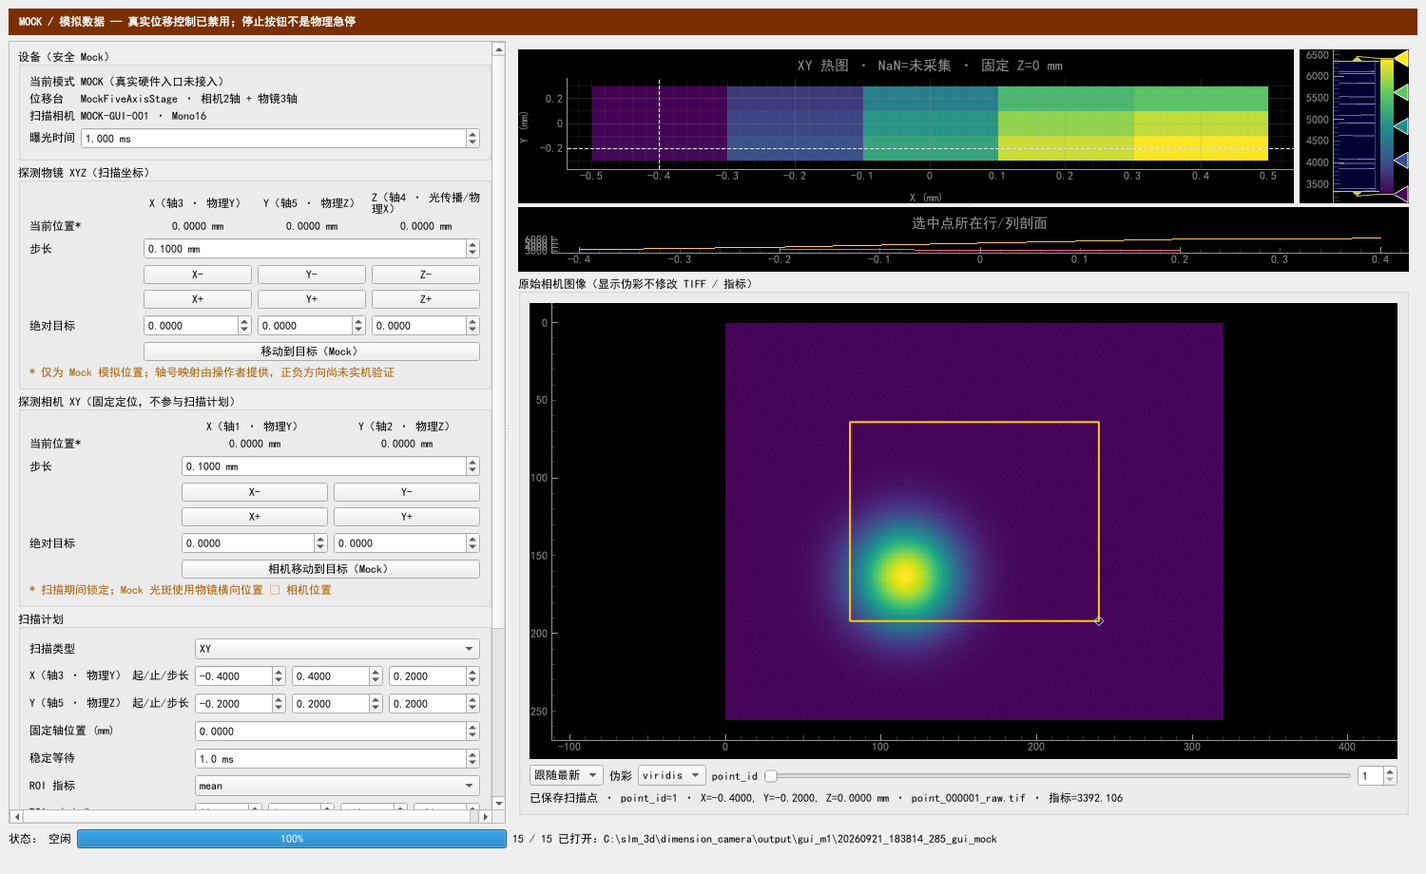
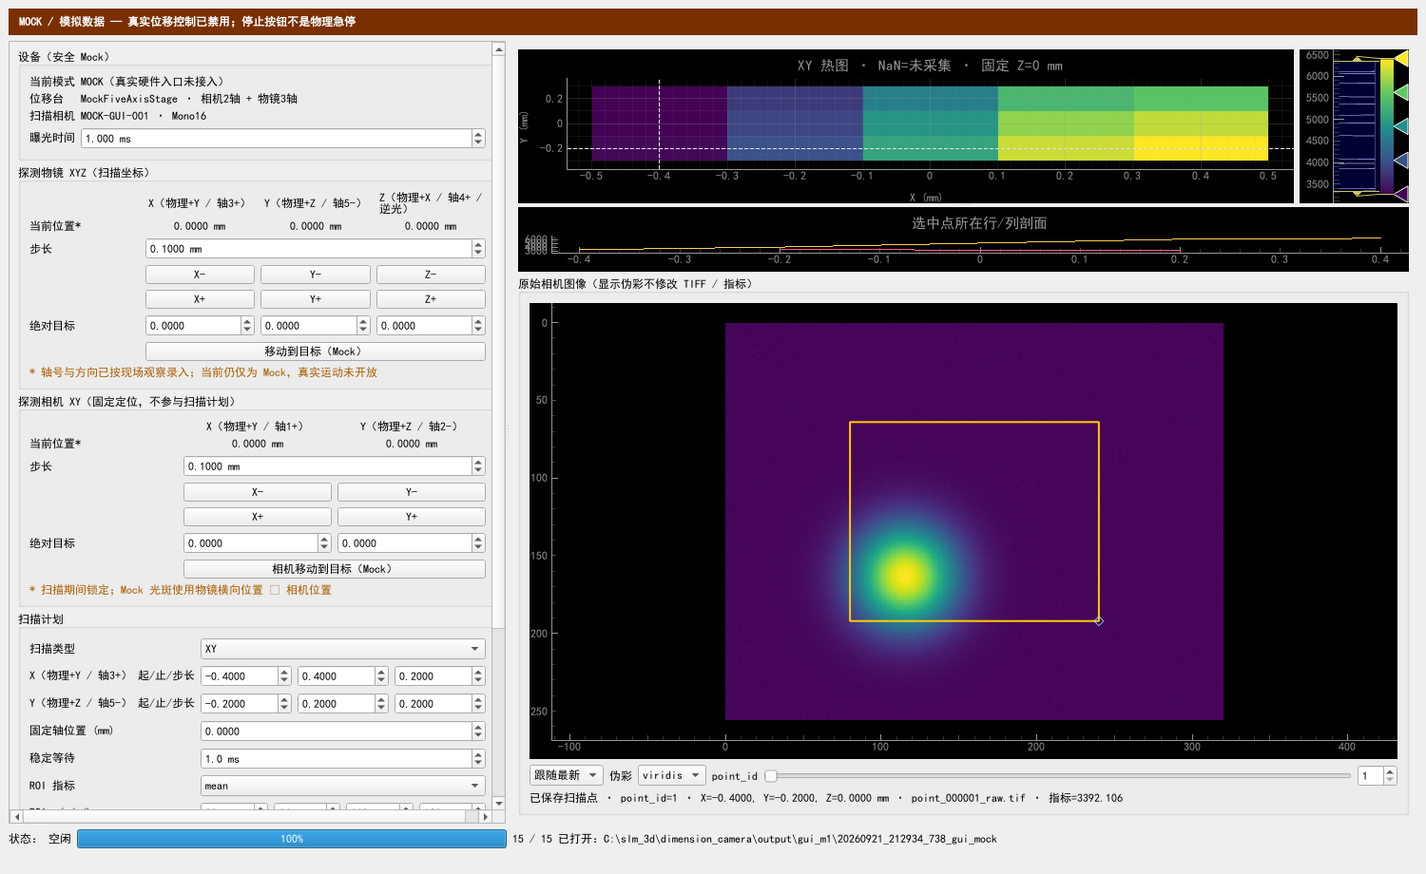
feat: record verified five-axis directions

diff --git a/data/spatial_session.py b/data/spatial_session.py
@@ -19,7 +19,8 @@ from scan.spatial_scan import SpatialPoint, SpatialScanPlan
 
 SPATIAL_LOG_COLUMNS = [
     "timestamp_utc", "scan_id", "point_id", "order_index", "row", "col",
-    "scan_type", "target_x_mm", "target_y_mm", "target_z_mm",
+    "scan_type", "axis_mapping_id", "direction_mapping_status",
+    "target_x_mm", "target_y_mm", "target_z_mm",
     "actual_x_mm", "actual_y_mm", "actual_z_mm", "position_source",
     "camera_x_mm", "camera_y_mm", "camera_position_source",
     "camera_source", "camera_serial", "camera_model", "exposure_us",
@@ -104,6 +105,8 @@ class SpatialDataManager:
         self.session_dir: Path | None = None
         self._file = None
         self._writer: csv.DictWriter | None = None
+        self._axis_mapping_id = "unavailable"
+        self._direction_mapping_status = "unavailable"
 
     def open(self, *, stage_info: dict[str, object], camera_info: dict[str, object]) -> Path:
         self.plan.save_root.mkdir(parents=True, exist_ok=True)
@@ -126,6 +129,8 @@ class SpatialDataManager:
             "camera_info": camera_info,
             "position_meaning": "mock_simulated; not encoder feedback",
         })
+        self._axis_mapping_id = str(stage_info.get("axis_mapping_id", "unavailable"))
+        self._direction_mapping_status = str(stage_info.get("axis_mapping_status", "unavailable"))
         _atomic_json(session / "scan_config.json", config)
         self._file = (session / "scan_log.csv").open("w", newline="", encoding="utf-8-sig")
         self._writer = csv.DictWriter(self._file, fieldnames=SPATIAL_LOG_COLUMNS)
@@ -167,6 +172,8 @@ class SpatialDataManager:
             "row": "" if point.row is None else point.row,
             "col": "" if point.col is None else point.col,
             "scan_type": self.plan.scan_type,
+            "axis_mapping_id": self._axis_mapping_id,
+            "direction_mapping_status": self._direction_mapping_status,
             **{f"target_{axis.lower()}_mm": point.targets_mm[axis] for axis in ("X", "Y", "Z")},
             **{f"actual_{axis.lower()}_mm": actual_mm[axis] for axis in ("X", "Y", "Z")},
             "position_source": "mock_simulated", "camera_source": "mock",
@@ -194,6 +201,8 @@ class SpatialDataManager:
             "row": "" if point.row is None else point.row,
             "col": "" if point.col is None else point.col,
             "scan_type": self.plan.scan_type,
+            "axis_mapping_id": self._axis_mapping_id,
+            "direction_mapping_status": self._direction_mapping_status,
             **{f"target_{axis.lower()}_mm": point.targets_mm[axis] for axis in ("X", "Y", "Z")},
             "position_source": "unavailable", "camera_source": "mock",
             "camera_serial": self.plan.camera_serial, "exposure_us": self.plan.exposure_us,
@@ -338,14 +347,57 @@ def export_spatial_session_mat(directory: Path) -> Path:
                 metric_grid[int(row[index, 0]), int(col[index, 0])] = metric_value[index, 0]
 
     roi_xywh = config.get("roi_xywh", [])
+    stage_info = config.get("stage", {})
+    if not isinstance(stage_info, dict):
+        stage_info = {}
+    axis_mapping = stage_info.get("axis_mapping", {})
+    if not isinstance(axis_mapping, dict):
+        axis_mapping = {}
+
+    def mapping_arrays(group: str, logical_axes: tuple[str, ...]) -> tuple[np.ndarray, np.ndarray, list[object]]:
+        group_mapping = axis_mapping.get(group, {})
+        if not isinstance(group_mapping, dict):
+            group_mapping = {}
+        controller_axes = np.full((1, len(logical_axes)), np.nan, dtype=np.float64)
+        controller_signs = np.full((1, len(logical_axes)), np.nan, dtype=np.float64)
+        physical_axes: list[object] = []
+        for index, logical_axis in enumerate(logical_axes):
+            entry = group_mapping.get(logical_axis, {})
+            if not isinstance(entry, dict):
+                entry = {}
+            controller_axes[0, index] = _float_or_nan(entry.get("controller_axis"))
+            controller_signs[0, index] = _float_or_nan(entry.get("controller_sign_for_gui_positive"))
+            physical_axes.append(str(entry.get("physical_axis", "")))
+        return controller_axes, controller_signs, physical_axes
+
+    objective_controller_axes, objective_controller_signs, objective_physical_axes = mapping_arrays(
+        "objective", ("X", "Y", "Z")
+    )
+    camera_controller_axes, camera_controller_signs, camera_physical_axes = mapping_arrays(
+        "camera", ("X", "Y")
+    )
     successful_count = sum(status == "ok" for status in statuses)
     payload: dict[str, object] = {
-        "mat_export_version": np.int32(1),
+        "mat_export_version": np.int32(2),
         "scan_id": str(config.get("scan_id", "")),
         "scan_type": str(config.get("scan_type", "")),
         "device_mode": str(config.get("device_mode", "")),
         "position_meaning": str(config.get("position_meaning", "")),
+        "axis_mapping_id": str(stage_info.get("axis_mapping_id", "")),
+        "axis_mapping_status": str(stage_info.get("axis_mapping_status", "")),
+        "direction_verification_method": str(stage_info.get("direction_verification_method", "")),
         "coordinate_axis_order": _string_column(["X", "Y", "Z"]),
+        "objective_controller_axis_order": objective_controller_axes,
+        "objective_controller_sign_for_gui_positive": objective_controller_signs,
+        "objective_physical_axis_for_gui_order": _string_column(objective_physical_axes),
+        "camera_controller_axis_order": camera_controller_axes,
+        "camera_controller_sign_for_gui_positive": camera_controller_signs,
+        "camera_physical_axis_for_gui_order": _string_column(camera_physical_axes),
+        "objective_z_positive_optical_direction": str(
+            axis_mapping.get("objective", {}).get("Z", {}).get(
+                "controller_positive_optical_direction", ""
+            ) if isinstance(axis_mapping.get("objective", {}), dict) else ""
+        ),
         "point_id": point_id,
         "order_index": order_index,
         "row": row,

diff --git a/mock/mock_xyz_stage.py b/mock/mock_xyz_stage.py
@@ -1,7 +1,7 @@
 """GUI-M1 的线程安全五轴模拟位移台。
 
 兼容原有物镜 ``X/Y/Z`` API，同时增加探测相机 ``X/Y``。这里的 X/Y/Z 是
-光学逻辑坐标；控制器轴号及实验室物理轴映射只作为已报告、待实机确认的元数据。
+光学逻辑坐标；控制器轴号及方向来自现场人工观察，Mock 本身不连接真实控制器。
 """
 
 from __future__ import annotations
@@ -19,16 +19,38 @@ class MockXYZStage:
     _OBJECTIVE_KEYS = {"X": "objective_X", "Y": "objective_Y", "Z": "objective_Z"}
     _CAMERA_KEYS = {"X": "camera_X", "Y": "camera_Y"}
 
-    # 映射来自操作者描述；正负方向、控制器配置和机械行程尚未实机验证。
+    # 轴身份和方向来自操作者使用官方控制软件的现场观察；标定、行程和安全 API 仍未知。
     AXIS_MAPPING = {
         "camera": {
-            "X": {"controller_axis": 1, "optical_role": "transverse_x", "physical_axis": "Y"},
-            "Y": {"controller_axis": 2, "optical_role": "transverse_y", "physical_axis": "Z"},
+            "X": {
+                "controller_axis": 1, "optical_role": "transverse_x", "physical_axis": "Y",
+                "controller_positive_physical_direction": "+Y",
+                "controller_sign_for_gui_positive": 1,
+            },
+            "Y": {
+                "controller_axis": 2, "optical_role": "transverse_y", "physical_axis": "Z",
+                "controller_positive_physical_direction": "-Z",
+                "controller_sign_for_gui_positive": -1,
+            },
         },
         "objective": {
-            "X": {"controller_axis": 3, "optical_role": "transverse_x", "physical_axis": "Y"},
-            "Y": {"controller_axis": 5, "optical_role": "transverse_y", "physical_axis": "Z"},
-            "Z": {"controller_axis": 4, "optical_role": "propagation", "physical_axis": "X"},
+            "X": {
+                "controller_axis": 3, "optical_role": "transverse_x", "physical_axis": "Y",
+                "controller_positive_physical_direction": "+Y",
+                "controller_sign_for_gui_positive": 1,
+            },
+            "Y": {
+                "controller_axis": 5, "optical_role": "transverse_y", "physical_axis": "Z",
+                "controller_positive_physical_direction": "-Z",
+                "controller_sign_for_gui_positive": -1,
+            },
+            "Z": {
+                "controller_axis": 4, "optical_role": "propagation_axis", "physical_axis": "X",
+                "controller_positive_physical_direction": "+X",
+                "controller_sign_for_gui_positive": 1,
+                "controller_positive_optical_direction": "against_propagation",
+                "controller_positive_mechanical_observation": "objective_forward",
+            },
         },
     }
 
@@ -166,8 +188,11 @@ class MockXYZStage:
             "position_source": "mock_simulated",
             "unit": "mm (simulation only)",
             "real_motion_enabled": False,
-            "axis_mapping_status": "user_reported_axis_identity; direction_sign_unverified",
-            "direction_sign_verified": False,
+            "axis_mapping_id": "five_axis_operator_observed_v1",
+            "axis_mapping_status": "operator_observed_axis_identity_and_direction",
+            "direction_sign_verified": True,
+            "direction_verification_method": "operator_observed_with_official_controller_software",
+            "gui_coordinate_convention": "positive_gui_coordinates_follow_positive_physical_axes",
             "axis_mapping": self.AXIS_MAPPING,
             "camera_positions_mm_at_scan_start": self.get_camera_positions(),
             "objective_positions_mm_at_scan_start": self.get_positions(),

diff --git a/tests/test_gui_m1.py b/tests/test_gui_m1.py
@@ -23,8 +23,10 @@ def test_gui_constructs_mock_only_without_hardware(tmp_path: Path) -> None:
         assert window.stage.is_connected and window.camera.is_connected
         assert set(window.camera_position_labels) == {"X", "Y"}
         label_texts = [label.text() for label in window.findChildren(QtWidgets.QLabel)]
-        assert any("轴3" in text and "物理Y" in text for text in label_texts)
-        assert any("轴1" in text and "物理Y" in text for text in label_texts)
+        assert any("轴3+" in text and "物理+Y" in text for text in label_texts)
+        assert any("轴1+" in text and "物理+Y" in text for text in label_texts)
+        assert any("轴5-" in text and "物理+Z" in text for text in label_texts)
+        assert any("轴4+" in text and "逆光" in text for text in label_texts)
         assert window.camera_move_button.text().startswith("相机移动")
         before = window.stage.move_command_count
         window._plan = window._plan_from_controls()
@@ -80,15 +82,8 @@ def test_gui_mock_camera_move_does_not_change_objective(tmp_path: Path) -> None:
     window = MainWindow(config_path=tmp_path / "configuration.json")
     try:
         original = window.stage.get_positions()
-        window.camera_target_spins["X"].setValue(0.2)
-        window.camera_target_spins["Y"].setValue(-0.1)
-        window.camera_move_button.click()
-        deadline = 1000
-        while window._move_thread is not None and deadline > 0:
-            QtTest.QTest.qWait(10)
-            deadline -= 10
-        assert window._move_thread is None
-        assert window.stage.get_camera_positions() == {"X": 0.2, "Y": -0.1}
+        result = window.controller.manual_move_camera({"X": 0.2, "Y": -0.1})
+        assert result == {"X": 0.2, "Y": -0.1}
         assert window.stage.get_positions() == original
     finally:
         window.close(); app.processEvents()

diff --git a/tests/test_spatial_controller.py b/tests/test_spatial_controller.py
@@ -49,15 +49,24 @@ def test_complete_5_by_3_scan_save_reload_and_metric(tmp_path) -> None:
     config = json.loads((session_dir / "scan_config.json").read_text(encoding="utf-8"))
     assert config["device_mode"] == "MOCK" and config["stage"]["real_motion_enabled"] is False
     assert config["stage"]["axis_mapping"]["objective"]["Y"]["controller_axis"] == 5
-    assert config["stage"]["direction_sign_verified"] is False
+    assert config["stage"]["direction_sign_verified"] is True
+    assert config["stage"]["axis_mapping"]["camera"]["Y"]["controller_sign_for_gui_positive"] == -1
     assert {row["camera_x_mm"] for row in rows} == {"0.0"}
     assert {row["camera_y_mm"] for row in rows} == {"0.0"}
+    assert {row["axis_mapping_id"] for row in rows} == {"five_axis_operator_observed_v1"}
     matlab = loadmat(session_dir / "scan_data.mat", squeeze_me=True)
+    assert int(matlab["mat_export_version"]) == 2
     assert matlab["scan_id"] == config["scan_id"]
     assert matlab["target_xyz_mm"].shape == (15, 3)
     assert matlab["actual_xyz_mm"].shape == (15, 3)
     assert matlab["camera_xy_mm"].shape == (15, 2)
     assert np.allclose(matlab["camera_xy_mm"], 0.0)
+    assert matlab["axis_mapping_id"] == "five_axis_operator_observed_v1"
+    assert np.array_equal(matlab["objective_controller_axis_order"], [3, 5, 4])
+    assert np.array_equal(matlab["objective_controller_sign_for_gui_positive"], [1, -1, 1])
+    assert np.array_equal(matlab["camera_controller_axis_order"], [1, 2])
+    assert np.array_equal(matlab["camera_controller_sign_for_gui_positive"], [1, -1])
+    assert matlab["objective_z_positive_optical_direction"] == "against_propagation"
     assert matlab["metric_value"].shape == (15,)
     assert matlab["metric_grid"].shape == (3, 5)
     assert np.isclose(matlab["metric_grid"][1, 2], float(rows[7]["metric_value"]))

diff --git a/tests/test_mock_five_axis_stage.py b/tests/test_mock_five_axis_stage.py
@@ -25,17 +25,22 @@ def test_five_axis_groups_are_independent_and_signal_is_relative() -> None:
     assert stage.get_signal_positions() == pytest.approx({"X": 0.3, "Y": 0.5, "Z": 0.5})
 
 
-def test_reported_axis_mapping_is_explicitly_unverified() -> None:
+def test_operator_observed_axis_mapping_records_direction_signs() -> None:
     stage = MockXYZStage()
     stage.connect()
     info = stage.device_info()
-    assert info["direction_sign_verified"] is False
-    assert info["axis_mapping"]["camera"]["X"] == {
-        "controller_axis": 1, "optical_role": "transverse_x", "physical_axis": "Y"
-    }
-    assert info["axis_mapping"]["objective"]["Z"] == {
-        "controller_axis": 4, "optical_role": "propagation", "physical_axis": "X"
-    }
+    assert info["direction_sign_verified"] is True
+    assert info["direction_verification_method"] == "operator_observed_with_official_controller_software"
+    camera_x = info["axis_mapping"]["camera"]["X"]
+    assert camera_x["controller_axis"] == 1
+    assert camera_x["controller_positive_physical_direction"] == "+Y"
+    assert camera_x["controller_sign_for_gui_positive"] == 1
+    camera_y = info["axis_mapping"]["camera"]["Y"]
+    assert camera_y["controller_sign_for_gui_positive"] == -1
+    objective_z = info["axis_mapping"]["objective"]["Z"]
+    assert objective_z["controller_axis"] == 4
+    assert objective_z["controller_positive_physical_direction"] == "+X"
+    assert objective_z["controller_positive_optical_direction"] == "against_propagation"
 
 
 def test_one_mock_controller_rejects_overlapping_group_moves() -> None:

diff --git a/gui/main_window.py b/gui/main_window.py
@@ -29,13 +29,13 @@ STATE_TEXT = {
 }
 
 OBJECTIVE_AXIS_TEXT = {
-    "X": "X（轴3 · 物理Y）",
-    "Y": "Y（轴5 · 物理Z）",
-    "Z": "Z（轴4 · 光传播/物理X）",
+    "X": "X（物理+Y / 轴3+）",
+    "Y": "Y（物理+Z / 轴5-）",
+    "Z": "Z（物理+X / 轴4+ / 逆光）",
 }
 CAMERA_AXIS_TEXT = {
-    "X": "X（轴1 · 物理Y）",
-    "Y": "Y（轴2 · 物理Z）",
+    "X": "X（物理+Y / 轴1+）",
+    "Y": "Y（物理+Z / 轴2-）",
 }
 
 
@@ -206,7 +206,7 @@ class MainWindow(QtWidgets.QMainWindow):
         self.move_button = QtWidgets.QPushButton("移动到目标（Mock）")
         self.move_button.clicked.connect(self._move_to_targets)
         grid.addWidget(self.move_button, 6, 1, 1, 3)
-        note = QtWidgets.QLabel("* 仅为 Mock 模拟位置；轴号映射由操作者提供，正负方向尚未实机验证")
+        note = QtWidgets.QLabel("* 轴号与方向已按现场观察录入；当前仍仅为 Mock，真实运动未开放")
         note.setWordWrap(True)
         note.setStyleSheet("color:#a85d00")
         grid.addWidget(note, 7, 0, 1, 4)

diff --git a/docs/DIMENSION_STAGE_EVIDENCE.md b/docs/DIMENSION_STAGE_EVIDENCE.md
@@ -1,6 +1,6 @@
 # Dimension Stage Hardware Evidence Matrix
 
-最后更新：2026-09-20，软件版本：bring-up v0.2。
+最后更新：2026-09-21，软件版本：bring-up v0.2 + GUI-M1。
 
 ## 证据规则
 
@@ -12,6 +12,8 @@
 
 - `confirmed-source`：调用形式在当前厂家示例中出现，但不等于已连接本机硬件验证；
 - `confirmed-local`：已经完成不接触真实硬件的本机验证；
+- `confirmed-hardware-read-only`：已在实验电脑连接真实控制器并完成只读验证；
+- `operator-observed`：操作者通过厂家官方控制软件现场观察确认，尚非 Python 自动运动验证；
 - `unverified-hardware`：需要真实控制器只读验证；
 - `unknown`：没有足够证据，禁止调用或解释。
 
@@ -20,10 +22,10 @@
 | Item | Status | Evidence | Safe action now |
 |---|---|---|---|
[1 lines of base64/hex data omitted]
-| Controller connection | confirmed-source / unverified-hardware | 厂家 Python 示例调用 `GA_OpenByIP(bytes, bytes, 0, 0)` | 仅在 Phase A 显式执行 |
+| Controller connection | confirmed-hardware-read-only | 厂家 Python 示例调用 `GA_OpenByIP(bytes, bytes, 0, 0)`；实验电脑只读连接成功 | 仅允许 Phase A 只读入口 |
 | PCIP / CardIP | documented in supplied official package | `ComParam.xml` 为 PCIP `192.168.0.200`、CardIP `192.168.0.1`；Python 示例以此顺序传给 `GA_OpenByIP` | 仍由现场人工确认输入，无程序默认值 |
 | Disconnect | confirmed-source / unverified-hardware | 厂家 Python 示例调用 `GA_Close()` | Phase A finally 中允许 |
-| Axis selection | partly confirmed | 示例把轴号作为第一个参数；官方 GUI 配置含 14 个逻辑轴，现场物理轴映射仍未知 | 用户必须显式填写，禁止默认认定 |
+| Axis selection | operator-observed | 相机 X/Y = 轴1/2；物镜 X/Y/Z = 轴3/5/4 | 写入 GUI-M1 元数据；真实运动仍禁止 |
 | Planned-position read signature | confirmed-source / unverified-hardware | `Python-正转20000个脉冲-延时5秒-反转20000个脉冲/jason.py`: `GA_GetPrfPos(axis, double*, 1, 0)` | 可读取 raw pulse，不转成 mm |
 | Actual encoder position | unknown | 当前资料没有已确认的实际编码器位置 API | do not claim/read |
 | `GA_GetSts` signature | confirmed-source / unverified-hardware | 同一厂家示例：`GA_GetSts(axis, long*, 1, 0)` | 可读取并打印 raw value |
@@ -36,8 +38,9 @@
 | `GA_SetVel` | confirmed-source only | 厂家示例说明单位 pulse/ms | Phase A 禁止调用 |
 | Axis 1 `GA_Update(1)` | confirmed-source only | 厂家示例仅演示轴 1 | Phase A 禁止调用 |
 | Multi-axis start mask | unknown | 没有轴 2..8 mask 的官方资料 | motion forbidden for non-axis-1 |
-| pulse/mm | candidate, not yet accepted | 官方 GUI 配置对各轴写有 `PulsPerRev=10000`、`Lead=1`、`Rate=1`，可推测线性轴候选值为 10000 pulse/mm，但缺少字段公式和目标轴确认 | 在确认轴映射与换算公式前禁止用于真实运动 |
-| Direction sign | unknown | 没有确认 pulse 正方向对应的物理方向 | motion forbidden |
+| Axis 1 pulse/mm | confirmed by read/GUI comparison | `-57363 pulse` 对应官方绝对坐标 `-5.73630 mm`；官方 `+` 后读数为 `-57362 pulse` | 记录为轴1 `10000 pulse/mm`；不外推到其他轴 |
+| Axis 2..5 pulse/mm | candidate, not yet accepted | 官方 GUI 配置写有 `PulsPerRev=10000`、`Lead=1`、`Rate=1`，但未逐轴完成读数对照 | motion forbidden |
+| Direction sign | operator-observed | 轴1 `+→+Y`；轴2 `+→-Z`；轴3 `+→+Y`；轴4 `+→+X`（逆光、物镜向前）；轴5 `+→-Z` | 作为 GUI/数据坐标映射；不解除 motion safety gate |
 | Mechanical travel | axis mapping unknown | 官方 GUI 配置含逐轴 `PosLimt` / `NegLimt`，轴 1..6 为 +26/-26 mm；其他轴不同 | 必须先确认实际扫描轴号，再采用对应范围 |
 | Controller zero ↔ physical mm | unknown | 没有 Home/坐标定义资料 | motion forbidden |
 | Software limits | unknown | 虽能观察到相关 DLL symbol，但无可靠签名/语义 | do not call |

diff --git a/GUI_M1_ACCEPTANCE.md b/GUI_M1_ACCEPTANCE.md
@@ -2,9 +2,10 @@
 
 GUI-M1 是现有 Dimension Camera 工程中的离线 Mock 桌面界面。它不会加载 GAS.dll、不会枚举或连接 Basler 相机，也不开放真实运动。界面分为探测相机 XY 和探测物镜 XYZ，共五个 `mock_simulated` 逻辑轴；停止按钮不是物理急停。
 
-当前界面采用操作者提供的暂定映射：相机 X/Y → 控制器轴 1/2 → 物理 Y/Z；物镜
-X/Y/Z → 控制器轴 3/5/4 → 物理 Y/Z/X，其中物镜 Z（轴4）为光传播方向。映射身份会随
-扫描写入配置，但所有轴的正负方向及真实机械响应仍标为未验证。
+当前界面采用现场人工观察确认的映射：相机 `X+` 使用轴1 `+`（物理 `+Y`），相机
+`Y+` 使用轴2 `−`（物理 `+Z`）；物镜 `X+` 使用轴3 `+`（物理 `+Y`），物镜 `Y+`
+使用轴5 `−`（物理 `+Z`），物镜 `Z+` 使用轴4 `+`（物理 `+X`、逆光传播、物镜向前）。
+映射身份和方向证据会随扫描写入配置、CSV 和 MAT，但这仍不是 Python 实机运动验证。
 
 ## 安装与启动
 
@@ -40,7 +41,8 @@ cd C:\slm_3d\dimension_camera
 - 未实现多帧平均、多相机监控、serpentine、自动对焦、三维体扫描、自动断点续扫和 EXE 打包。
 - Mock 的 `uint16` 饱和阈值明确为 65535；未来真实相机必须从像素格式/有效位深读取，不能照搬 dtype 上限。
 - 真相机的自动曝光/增益、缓存旧帧和“到位后新曝光”尚未验证。
-- 真实运动仍由原有 safety gate 禁止。开放前必须现场确认 XYZ 映射、状态位、可靠停止、编码器/规划位置语义、标定和安全范围。
+- 真实运动仍由原有 safety gate 禁止。五轴身份和方向虽已现场观察确认，开放前仍必须确认状态位、可靠停止、编码器/规划位置语义、逐轴标定和安全范围。
+- 五轴身份和方向已由操作者通过官方软件观察确认；轴2～5的 pulse/mm、零点和安全行程仍待逐轴记录。
 - 本次自动化只验证 Mock 软件闭环，不构成实机相机、控制器、限位、急停或机械安全验证。
 
 ## MATLAB 读取

diff --git a/README.md b/README.md
@@ -187,18 +187,20 @@ cd C:\slm_3d\dimension_camera
 
 GUI-M1 现按五轴机构拆成两组光学逻辑坐标：
 
-| GUI 坐标 | 控制器轴 | 光学角色 | 实验室物理轴 |
+| GUI 坐标正方向 | 控制器命令 | 控制器 `+` 的物理方向 | 光学备注 |
 |---|---:|---|---|
-| 探测相机 X | 1 | 垂直光传播平面 transverse x | Y |
-| 探测相机 Y | 2 | 垂直光传播平面 transverse y | Z |
-| 探测物镜 X | 3 | 垂直光传播平面 transverse x | Y |
-| 探测物镜 Y | 5 | 垂直光传播平面 transverse y | Z |
-| 探测物镜 Z | 4 | 光传播方向 | X |
+| 探测相机 `X+`（物理 `+Y`） | 轴1 `+` | `+Y` | transverse x |
+| 探测相机 `Y+`（物理 `+Z`） | 轴2 `−` | `−Z` | transverse y |
+| 探测物镜 `X+`（物理 `+Y`） | 轴3 `+` | `+Y` | transverse x |
+| 探测物镜 `Y+`（物理 `+Z`） | 轴5 `−` | `−Z` | transverse y |
+| 探测物镜 `Z+`（物理 `+X`） | 轴4 `+` | `+X` | 逆光传播、物镜向前 |
 
 当前扫描计划只使用物镜逻辑 XYZ；相机 XY 是扫描前的固定定位轴，扫描运行时被锁定。
-该轴号映射来自操作者提供的信息，已写入 `scan_config.json` 和 `scan_data.mat` 的
-`config_json`；**各轴正负方向、控制器轴号和实际机械方向仍未实机验证**。Mock 图像用
-“物镜横向位置 − 相机位置”模拟相对位移，不代表真实光学响应。
+轴身份和正负方向来自操作者使用官方控制软件的现场观察，按
+`operator_observed_with_official_controller_software` 写入 `scan_config.json`、CSV 和 MAT。
+这不是 Python 自动运动或编码器闭环验证；轴2～5的 pulse/mm、各轴零点/行程、状态位、
+限位读取和可靠停止接口仍未确认，真实运动入口继续关闭。Mock 图像用“物镜横向位置 − 相机位置”
+模拟相对位移，不代表真实光学响应。
 
 GUI-M1 的二维 raster 约定为 `heatmap[row, col] = [纵轴, 横轴]`，图像变换把像素中心对齐到
 计划坐标。主图的零值、未采集 `NaN` 和错误日志互不混淆；选点只浏览数据，不提交移动。

diff --git a/docs/FIRST_HARDWARE_BRINGUP.md b/docs/FIRST_HARDWARE_BRINGUP.md
@@ -53,7 +53,7 @@ Phase A 明确禁止：Reset、Zero、Encoder On/Off、Axis/Servo On、Home、Jo
 - 控制器型号、固件版本与 DLL/SDK 版本匹配；
 - 现场轴号；
 - pulse/mm；
-- pulse 正方向对应的物理方向；
+- pulse 正方向对应的物理方向（轴1～5已由操作者现场观察记录，但仍须与最终配置绑定）；
 - 机械 travel min/max；
 - controller pulse=0 对应的物理 mm 坐标；
 - 正负限位信号定义和当前状态；
